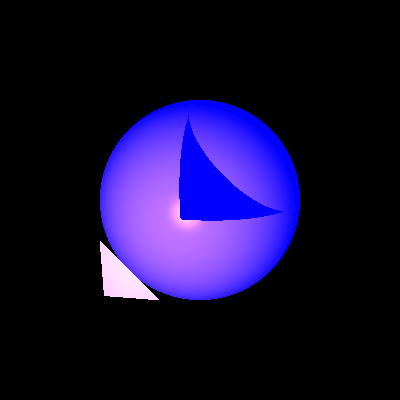
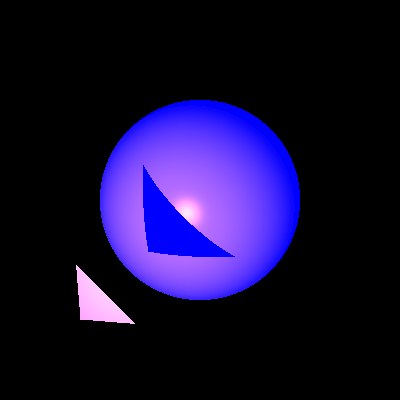
t7

Changed region(s): [[0.36, 0.3, 0.72, 0.66], [0.18, 0.6, 0.39, 0.81]]

diff --git a/Tests/elements/ShadowTests.java b/Tests/elements/ShadowTests.java
@@ -28,13 +28,14 @@ public class ShadowTests {
                 new Sphere(60, new Point3D(0, 0, -200)) //
                         .setEmission(new Color(java.awt.Color.BLUE)) //
                         .setMaterial(new Material().setKd(0.5).setKs(0.5).setShininess(30)), //
-                new Triangle(new Point3D(-62, -32, 0), new Point3D(-32, -62, 0), new Point3D(-60, -60, -4)) //
+                new Triangle(new Point3D(-70, -40, 0), new Point3D(-40, -70, 0), new Point3D(-68, -68, -4)) //
                         .setEmission(new Color(java.awt.Color.BLUE)) //
                         .setMaterial(new Material().setKd(0.5).setKs(0.5).setShininess(30)) //
         );
         scene.lights.add( //
                 new SpotLight(new Color(400, 240, 0), new Point3D(-100, -100, 200), new Vector(1, 1, -3)) //
                         .setKl(1E-5).setKq(1.5E-7));
+
 
         Render render = new Render(). //
                 setImageWriter(new ImageWriter("shadowSphereTriangleInitial1", 400, 400)) //
@@ -44,6 +45,9 @@ public class ShadowTests {
         render.writeToImage();
     }
 
+    /**
+     * Changing triangle position
+     */
 
     @Test
     public void sphereTriangleInitial2() {
@@ -51,7 +55,7 @@ public class ShadowTests {
                 new Sphere(60, new Point3D(0, 0, -200)) //
                         .setEmission(new Color(java.awt.Color.BLUE)) //
                         .setMaterial(new Material().setKd(0.5).setKs(0.5).setShininess(30)), //
-                new Triangle(new Point3D(-50, -20, 4), new Point3D(-20, -50, 4), new Point3D(-48, -48, 0)) //
+                new Triangle(new Point3D(-62, -32, 0), new Point3D(-32, -62, 0), new Point3D(-60, -60, -4)) //
                         .setEmission(new Color(java.awt.Color.BLUE)) //
                         .setMaterial(new Material().setKd(0.5).setKs(0.5).setShininess(30)) //
         );
@@ -67,27 +71,6 @@ public class ShadowTests {
         render.writeToImage();
     }
 
-    @Test
-    public void sphereTriangleInitial4() {
-        scene.geometries.add( //
-                new Sphere(60, new Point3D(0, 0, -200)) //
-                        .setEmission(new Color(java.awt.Color.BLUE)) //
-                        .setMaterial(new Material().setKd(0.5).setKs(0.5).setShininess(30)), //
-                new Triangle(new Point3D(-70, -40, 0), new Point3D(-40, -70, 0), new Point3D(-68, -68, -4)) //
-                        .setEmission(new Color(java.awt.Color.BLUE)) //
-                        .setMaterial(new Material().setKd(0.5).setKs(0.5).setShininess(30)) //
-        );
-        scene.lights.add( //
-                new SpotLight(new Color(400, 240, 0), new Point3D(-77, -77, 75), new Vector(1, 1, -3)) //
-                        .setKl(1E-5).setKq(1.5E-7));
-
-        Render render = new Render(). //
-                setImageWriter(new ImageWriter("shadowSphereTriangleInitial4", 400, 400)) //
-                .setCamera(camera) //
-                .setRayTracer(new BasicRayTracer(scene));
-        render.renderImage();
-        render.writeToImage();
-    }
 
     @Test
     public void sphereTriangleInitial3() {
@@ -95,14 +78,13 @@ public class ShadowTests {
                 new Sphere(60, new Point3D(0, 0, -200)) //
                         .setEmission(new Color(java.awt.Color.BLUE)) //
                         .setMaterial(new Material().setKd(0.5).setKs(0.5).setShininess(30)), //
-                new Triangle(new Point3D(-70, -40, 0), new Point3D(-40, -70, 0), new Point3D(-68, -68, -4)) //
+                new Triangle(new Point3D(-50, -20, 4), new Point3D(-20, -50, 4), new Point3D(-48, -48, 0)) //
                         .setEmission(new Color(java.awt.Color.BLUE)) //
                         .setMaterial(new Material().setKd(0.5).setKs(0.5).setShininess(30)) //
         );
         scene.lights.add( //
                 new SpotLight(new Color(400, 240, 0), new Point3D(-100, -100, 200), new Vector(1, 1, -3)) //
                         .setKl(1E-5).setKq(1.5E-7));
-
 
         Render render = new Render(). //
                 setImageWriter(new ImageWriter("shadowSphereTriangleInitial3", 400, 400)) //
@@ -112,9 +94,12 @@ public class ShadowTests {
         render.writeToImage();
     }
 
+    /**
+     * Changing light position
+     */
 
     @Test
-    public void sphereTriangleInitial5() {
+    public void sphereTriangleInitial4() {
         scene.geometries.add( //
                 new Sphere(60, new Point3D(0, 0, -200)) //
                         .setEmission(new Color(java.awt.Color.BLUE)) //
@@ -128,12 +113,39 @@ public class ShadowTests {
                         .setKl(1E-5).setKq(1.5E-7));
 
         Render render = new Render(). //
+                setImageWriter(new ImageWriter("shadowSphereTriangleInitial4", 400, 400)) //
+                .setCamera(camera) //
+                .setRayTracer(new BasicRayTracer(scene));
+        render.renderImage();
+        render.writeToImage();
+    }
+
+
+
+    @Test
+    public void sphereTriangleInitial5() {
+        scene.geometries.add( //
+                new Sphere(60, new Point3D(0, 0, -200)) //
+                        .setEmission(new Color(java.awt.Color.BLUE)) //
+                        .setMaterial(new Material().setKd(0.5).setKs(0.5).setShininess(30)), //
+                new Triangle(new Point3D(-70, -40, 0), new Point3D(-40, -70, 0), new Point3D(-68, -68, -4)) //
+                        .setEmission(new Color(java.awt.Color.BLUE)) //
+                        .setMaterial(new Material().setKd(0.5).setKs(0.5).setShininess(30)) //
+        );
+        scene.lights.add( //
+                new SpotLight(new Color(400, 240, 0), new Point3D(-77, -77, 75), new Vector(1, 1, -3)) //
+                        .setKl(1E-5).setKq(1.5E-7));
+
+        Render render = new Render(). //
                 setImageWriter(new ImageWriter("shadowSphereTriangleInitial5", 400, 400)) //
                 .setCamera(camera) //
                 .setRayTracer(new BasicRayTracer(scene));
         render.renderImage();
         render.writeToImage();
     }
+
+
+
 
 
     /**
@@ -195,10 +207,53 @@ public class ShadowTests {
         );
 
 
+        scene.lights.add(new DirectionalLight(new Color(java.awt.Color.WHITE), new Vector(0, 0, 1)));//
+               // .setKl(4E-4).setKq(2E-5));
+
+        ImageWriter imageWriter = new ImageWriter("picture", 600, 600);
+        Render render = new Render() //
+                .setImageWriter(imageWriter) //
+                .setCamera(camera) //
+                .setRayTracer(new BasicRayTracer(scene));
+
+        render.renderImage();
+        render.writeToImage();
+
+
+    }
+
+
+
+    @Test
+    public void pictureMove()
+    {
+
+        Camera camera=new Camera(new Point3D(300, -10, -1800), new Vector(-0.1, 0, 0.9), new Vector(0, -1, 0))
+                .setViewPlaneSize(200, 200).setDistance(1000);
+        //scene.setAmbientLight(new AmbientLight(new Color(java.awt.Color.WHITE), 0.15));
+
+
+        scene.geometries.add(
+
+                new Sphere(30, new Point3D(-50, -60, 45)) //
+                        .setEmission(new Color(0,0,20)) //
+                        .setMaterial(new Material().setKd(0.3).setKs(0.7).setShininess(100).setKt(0.5)), //
+                new Sphere(30, new Point3D(0, 0, 20)) //
+                        .setEmission(new Color(0,20,0)) //
+                        .setMaterial(new Material().setKd(0.3).setKs(0.7).setShininess(100).setKt(0.5)), //
+                new Sphere(30, new Point3D(50, 60, 45)) //
+                        .setEmission(new Color(20,0,0)) //
+                        .setMaterial(new Material().setKd(0.3).setKs(0.7).setShininess(100).setKt(0.5)), //
+                new Plane(new Point3D(0, 0, 120), new Vector(0, 0, 1)) //
+                        .setEmission(new Color(java.awt.Color.BLACK)) //
+                        .setMaterial(new Material().setKd(0.5).setKs(0.5).setShininess(1200).setKt(0.8)) //
+        );
+
+
         scene.lights.add(new SpotLight(new Color(java.awt.Color.WHITE), new Point3D(110, -110, -120), new Vector(0, 0, 1)) //
                 .setKl(4E-4).setKq(2E-5));
 
-        ImageWriter imageWriter = new ImageWriter("picture", 600, 600);
+        ImageWriter imageWriter = new ImageWriter("pictureMove", 600, 600);
         Render render = new Render() //
                 .setImageWriter(imageWriter) //
                 .setCamera(camera) //

diff --git a/src/renderer/BasicRayTracer.java b/src/renderer/BasicRayTracer.java
@@ -22,9 +22,12 @@ public class BasicRayTracer extends BaseRayTracer {
     }
 
     /**
-     * Returns color to each point
+     * Find the intersection and the scene’s geometries
+     * If there is no intersection, return the background color
+     * Find the closest intersection point
+     * Find the color of the intersection point (Ambient light)
      * @param ray
-     * @return
+     * @return color
      */
     @Override
     public Color traceRay(Ray ray) {
@@ -39,7 +42,7 @@ public class BasicRayTracer extends BaseRayTracer {
     }
 
     /**
-     * Fill environmental lighting color of the scene
+     * call to the recursive func calcColor
      * returns the color
      * @param
      * @return
@@ -51,7 +54,7 @@ public class BasicRayTracer extends BaseRayTracer {
 
 
     /**
-     *
+     *Fill environmental lighting color of the scene by call to calcLocalEffects and calcGlobalEffects
      * @param intersection
      * @param ray
      * @param level
@@ -67,7 +70,8 @@ public class BasicRayTracer extends BaseRayTracer {
 
 
     /**
-     *TODO
+     * The Phong Reflectance Model
+     * 𝒌𝑨 ∙ 𝑰𝑨 + 𝑰𝑬 +∑(𝒌𝑫∙|𝒍𝒊 ∙ 𝒏| + 𝒌𝑺 (∙ 𝒎𝒂𝒙 (𝟎, −𝒗 ∙ 𝒓))∙𝒏𝒔𝒉)∙ 𝑰𝑳𝒊 ∙𝑺𝒊
      * @param
      * @param ray
      * @return
@@ -107,7 +111,7 @@ public class BasicRayTracer extends BaseRayTracer {
 
 
     /**
-     * The Phong Reflectance Model
+     *  calculates the specular light of the specific light
      * @param ks
      * @param l
      * @param n
@@ -128,7 +132,7 @@ public class BasicRayTracer extends BaseRayTracer {
     }
 
     /**
-     * The Phong Reflectance Model
+     * calculates the diffusion of the light on the touched area
      * @param kd
      * @param l
      * @param n
@@ -142,8 +146,9 @@ public class BasicRayTracer extends BaseRayTracer {
     }
 
     /**
+     * Calculate shadow at point by by finding all the point that this ray meets in the scene,
+     * and if there are no points then there is a shadow
      *
-     *  במקום מכיוון התאורה לגוף גוף לכיווון התאורה
      * @param l
      * @param n
      * @param geopoint
@@ -188,7 +193,15 @@ public class BasicRayTracer extends BaseRayTracer {
         return intersections == null;
     }
 
-
+    /**
+     * The Phong Reflectance Model
+     * 𝒌𝑹 ∙ 𝑰𝑹 + 𝒌𝑻 ∙𝑰𝑻
+     * @param gp
+     * @param v
+     * @param level
+     * @param k
+     * @return
+     */
 
     private Color calcGlobalEffects(GeoPoint gp, Vector v, int level, double k) {
         Color color = Color.BLACK; Vector n = gp.geometry.getNormal(gp.point);
@@ -203,12 +216,18 @@ public class BasicRayTracer extends BaseRayTracer {
         return color;
     }
 
+    private Color calcGlobalEffect(Ray ray, int level, double kx, double kkx) {
+        GeoPoint gp = findClosestIntersection (ray);
+        return (gp == null ? _scene.background : calcColor(gp, ray, level-1, kkx)
+        ).scale(kx);
+    }
+
     /**
-     *
+     *constructs the refraction ray
      * @param point
      * @param v
      * @param n
-     * @return
+     * @return ray
      */
     private Ray constructRefractedRay(Point3D point, Vector v, Vector n) {
         return new Ray(point,v,n);
@@ -229,18 +248,20 @@ public class BasicRayTracer extends BaseRayTracer {
 
     }
 
-    private Color calcGlobalEffect(Ray ray, int level, double kx, double kkx) {
-        GeoPoint gp = findClosestIntersection (ray);
-        return (gp == null ? _scene.background : calcColor(gp, ray, level-1, kkx)
-        ).scale(kx);
-    }
 
+
+    /**
+     * finding the intersection that this ray meets in the scene
+     * @param ray
+     * @return GeoPoint
+     */
     private GeoPoint findClosestIntersection(Ray ray) {
         List<GeoPoint> pointList=_scene.geometries.findGeoIntersections(ray);
         return ray.findClosestGeoPoint(pointList);
     }
 
     /**
+     *Calculate partial shadow at point.
      *
      * @param light
      * @param l
